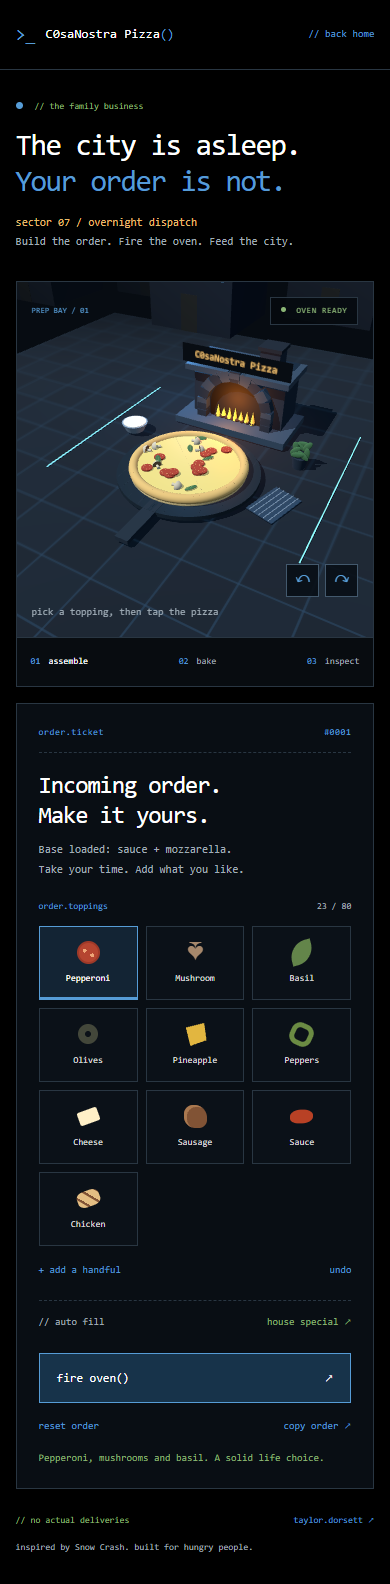
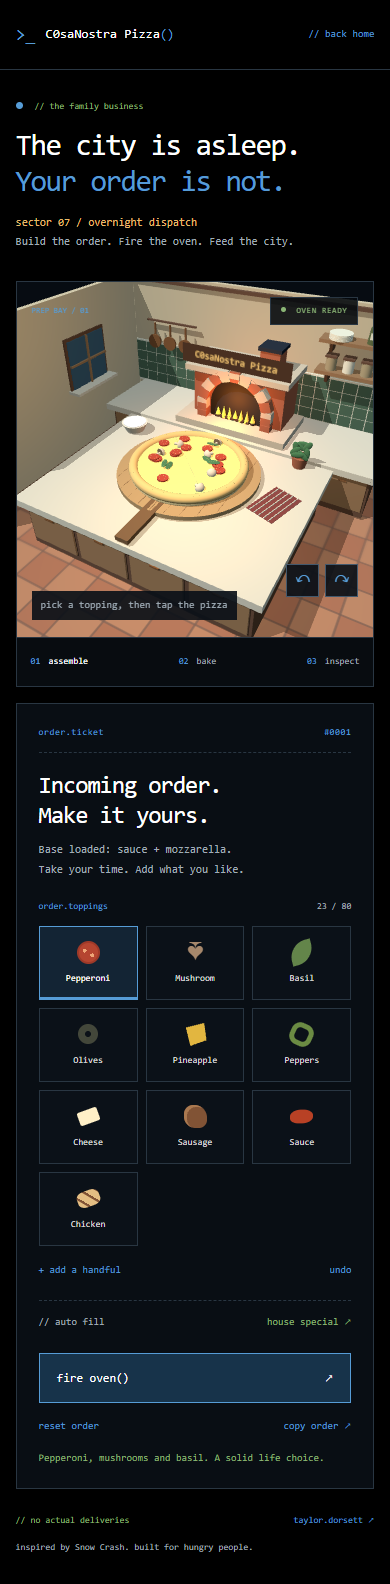
build an italian kitchen

Changed region(s): [[0.0308, 0.1547, 0.9538, 0.4021]]

diff --git a/kitchen-room.js b/kitchen-room.js
@@ -1,0 +1,117 @@
+import * as THREE from './vendor/three.module.js';
+import { createGeometry } from './geometry.js';
+
+// The room shares the pizza's coordinate system: the worktop is just below y=0.
+// It belongs to the kitchen group so none of it follows the courier outside.
+export function createKitchenRoom(root) {
+  const { mesh, box } = createGeometry(root);
+  const material = (color) => new THREE.MeshStandardMaterial({ color, roughness: 0.85 });
+  const plaster = material('#d4bc91');
+  const wood = material('#67442d');
+  const oak = material('#9b7047');
+  const stone = material('#d9c9a9');
+  const copper = new THREE.MeshStandardMaterial({
+    color: '#b77846',
+    metalness: 0.55,
+    roughness: 0.4
+  });
+  const ceramic = material('#eee1bd');
+
+  const tileCanvas = document.createElement('canvas');
+  tileCanvas.width = tileCanvas.height = 256;
+  const ctx = tileCanvas.getContext('2d');
+  ctx.fillStyle = '#785643';
+  ctx.fillRect(0, 0, 256, 256);
+  for (let row = 0; row < 2; row++)
+    for (let col = 0; col < 2; col++) {
+      ctx.fillStyle = (row + col) % 2 ? '#a96847' : '#b77a54';
+      ctx.fillRect(col * 128 + 3, row * 128 + 3, 122, 122);
+    }
+  const tiles = new THREE.CanvasTexture(tileCanvas);
+  tiles.colorSpace = THREE.SRGBColorSpace;
+  tiles.wrapS = tiles.wrapT = THREE.RepeatWrapping;
+  tiles.repeat.set(7, 7);
+  const floor = mesh(
+    new THREE.PlaneGeometry(18, 18),
+    new THREE.MeshStandardMaterial({ map: tiles, roughness: 1 })
+  );
+  floor.rotation.x = -Math.PI / 2;
+  floor.position.set(0, -2.5, -1);
+  box(14, 7.4, 0.25, plaster, root, 0, 1.2, -6.8);
+  box(0.25, 7.4, 12, plaster, root, -7, 1.2, -0.9);
+  box(14, 0.2, 0.18, wood, root, 0, -2.25, -6.6);
+  box(0.18, 0.2, 12, wood, root, -6.8, -2.25, -0.9);
+
+  // Green glazed backsplash with a cream border around the oven and shelves.
+  box(13.7, 2.25, 0.08, ceramic, root, 0, 0.6, -6.64);
+  const glaze = new THREE.MeshStandardMaterial({ color: '#536b50', roughness: 0.25 });
+  for (let row = 0; row < 4; row++)
+    for (let col = 0; col < 23; col++) {
+      box(0.55, 0.48, 0.04, glaze, root, -6.55 + col * 0.59, -0.15 + row * 0.52, -6.58);
+    }
+  box(14, 0.15, 0.2, wood, root, 0, 4.7, -6.6);
+
+  // A real prep counter, with a stone top and cabinets reaching the tiled floor.
+  box(9.3, 0.28, 7, stone, root, 0, -0.4, 0.7);
+  box(8.7, 1.85, 6.45, wood, root, 0, -1.45, 0.7);
+  for (const x of [-3.25, -1.08, 1.08, 3.25]) {
+    box(1.95, 1.45, 0.07, oak, root, x, -1.35, 3.96);
+    box(0.34, 0.07, 0.08, copper, root, x, -0.82, 4.02);
+  }
+  box(12.5, 0.28, 3.3, stone, root, 0, -0.4, -4.65);
+  box(12, 1.9, 2.8, wood, root, 0, -1.45, -4.65);
+  for (const x of [-5, -3, -1, 1, 3, 5]) {
+    box(1.8, 1.5, 0.06, oak, root, x, -1.35, -3.22);
+    box(0.3, 0.07, 0.08, copper, root, x, -0.8, -3.16);
+  }
+
+  // Open shelves, flour jars, plates and olive oil beside the oven.
+  for (const y of [2.25, 3.55]) {
+    box(3.3, 0.14, 0.8, oak, root, 4.3, y, -6.1);
+    for (const x of [3.1, 5.5]) box(0.12, 0.5, 0.5, wood, root, x, y - 0.25, -6.25);
+  }
+  for (let i = 0; i < 4; i++) {
+    const jar = mesh(
+      new THREE.CylinderGeometry(0.22, 0.22, 0.55, 16),
+      i % 2 ? ceramic : material('#ae986d')
+    );
+    jar.position.set(3.2 + i * 0.7, 2.6, -6.05);
+    box(0.46, 0.07, 0.46, wood, root, 3.2 + i * 0.7, 2.91, -6.05);
+  }
+  for (let i = 0; i < 5; i++) {
+    const plate = mesh(new THREE.CylinderGeometry(0.45, 0.45, 0.045, 24), ceramic);
+    plate.position.set(3.4, 3.65 + i * 0.05, -6.05);
+  }
+  const oil = material('#596335');
+  for (const x of [4.6, 5.25]) {
+    const bottle = mesh(new THREE.CylinderGeometry(0.17, 0.2, 0.62, 12), oil);
+    bottle.position.set(x, 3.93, -6.05);
+    box(0.13, 0.28, 0.13, oil, root, x, 4.35, -6.05);
+    box(0.2, 0.25, 0.025, ceramic, root, x, 3.95, -5.86);
+  }
+
+  box(2.7, 0.07, 0.12, wood, root, -4.6, 2.9, -6.4);
+  for (const x of [-5.45, -4.6, -3.75]) {
+    box(0.07, 0.62, 0.07, copper, root, x, 2.52, -6.27);
+    const pan = mesh(new THREE.CylinderGeometry(0.34, 0.32, 0.12, 24), copper);
+    pan.rotation.x = Math.PI / 2;
+    pan.position.set(x, 1.95, -6.22);
+  }
+
+  // A window in the side wall gives the room an outside edge without exposing
+  // the city floor that belongs to the delivery scene.
+  const night = new THREE.MeshStandardMaterial({
+    color: '#263f4b',
+    emissive: '#263f4b',
+    emissiveIntensity: 0.35
+  });
+  box(0.08, 2.4, 2.5, wood, root, -6.8, 2, -2.7);
+  box(0.08, 2.15, 2.25, night, root, -6.74, 2, -2.7);
+  box(0.12, 2.2, 0.08, oak, root, -6.68, 2, -2.7);
+  box(0.12, 0.08, 2.3, oak, root, -6.68, 2, -2.7);
+  box(0.6, 0.12, 2.7, stone, root, -6.55, 0.85, -2.7);
+
+  const warmLight = new THREE.PointLight('#ffd89c', 60, 18, 2);
+  warmLight.position.set(1, 5, 2);
+  root.add(warmLight);
+}

diff --git a/kitchen.js b/kitchen.js
@@ -1,14 +1,16 @@
 import * as THREE from './vendor/three.module.js';
 import { createGeometry } from './geometry.js';
+import { createKitchenRoom } from './kitchen-room.js';
 export function createKitchen(scene) {
   const root = new THREE.Group();
   scene.add(root);
+  createKitchenRoom(root);
   const { mesh, box, ball } = createGeometry(root);
   const material = (color, extra = {}) =>
     new THREE.MeshStandardMaterial({ color, roughness: 0.8, ...extra });
   const mats = {
-    wood: material('#364753', { metalness: 0.65, roughness: 0.4 }),
-    edge: material('#192833'),
+    wood: material('#b88e59'),
+    edge: material('#79532f'),
     crust: material('#e9b96b'),
     dough: material('#edc986'),
     cheese: material('#f4d575', { roughness: 0.52 }),
@@ -24,23 +26,20 @@ export function createKitchen(scene) {
     mozzarella: material('#fff0c7'),
     sausage: material('#815335'),
     chicken: material('#e4be83'),
-    brick: material('#273747', { metalness: 0.35 }),
-    grout: material('#485d70', { metalness: 0.5 }),
+    brick: material('#a85e3d'),
+    grout: material('#cfb997'),
     oven: material('#17222d'),
     black: material('#201f19'),
     coal: material('#382a21'),
     char: material('#96603a'),
-    cream: material('#8999a5'),
+    cream: material('#e9d8b4'),
     metal: material('#79796b', { metalness: 0.3 }),
-    towel: material('#243d51')
+    towel: material('#7d3730')
   };
-  const neon = material('#569cd6', { emissive: '#569cd6', emissiveIntensity: 2 });
-  box(4.4, 0.045, 0.045, neon, root, 0, 2.37, -4.0);
-  box(0.045, 0.035, 8, neon, root, -5, -0.28, -1.8);
-  box(0.045, 0.035, 8, neon, root, 5, -0.28, -1.8);
   const rimLight = new THREE.PointLight('#569cd6', 35, 16, 2);
   rimLight.position.set(-3, 3, -5);
   scene.add(rimLight);
+  rimLight.visible = false;
 
   // The brick oven is made from individual blocks around an arched opening.
   const oven = new THREE.Group();
@@ -79,7 +78,7 @@ export function createKitchen(scene) {
   signCanvas.width = 768;
   signCanvas.height = 128;
   const signContext = signCanvas.getContext('2d');
-  signContext.fillStyle = '#080d13';
+  signContext.fillStyle = '#493021';
   signContext.fillRect(0, 0, 768, 128);
   signContext.fillStyle = '#e8b96c';
   signContext.font = 'bold 66px monospace';
@@ -310,6 +309,7 @@ export function createKitchen(scene) {
     setCooked,
     setVisible(visible) {
       root.visible = visible;
+      rimLight.visible = !visible;
     }
   };
 }

diff --git a/order.js b/order.js
@@ -6,7 +6,16 @@ import { bindSharing } from './sharing.js';
 const $ = (id) => document.getElementById(id);
 // Order state belongs here. The view renders it, the kitchen owns its meshes,
 // and the courier owns a deterministic delivery timeline.
-export function startOrder({ host, scene, camera, renderer, fireLight, frameCamera, kitchen }) {
+export function startOrder({
+  host,
+  scene,
+  camera,
+  renderer,
+  fireLight,
+  frameCamera,
+  kitchen,
+  city
+}) {
   const reduceMotion = matchMedia('(prefers-reduced-motion: reduce)').matches;
   const { carriage, pizza, slices, flames, makeTopping, sliceIndex, setCooked } = kitchen;
   const courier = createCourier(scene);
@@ -17,6 +26,7 @@ export function startOrder({ host, scene, camera, renderer, fireLight, frameCame
     courierPhase = '';
     delete document.body.dataset.courierPhase;
     kitchen.setVisible(true);
+    city.setVisible(false);
     frameCamera(false);
   }
   let toppings = [],
@@ -38,6 +48,7 @@ export function startOrder({ host, scene, camera, renderer, fireLight, frameCame
     courierPhase = '';
     frameCamera(true);
     kitchen.setVisible(false);
+    city.setVisible(true);
     courier.start();
     update();
     say('Courier at the pickup bay.');

diff --git a/city.js b/city.js
@@ -2,7 +2,10 @@ import * as THREE from './vendor/three.module.js';
 import { createGeometry } from './geometry.js';
 // Distances use roughly one metre per unit, matching the courier and cars.
 export function createCity(scene) {
-  const { mesh, box } = createGeometry(scene);
+  const root = new THREE.Group();
+  root.visible = false;
+  scene.add(root);
+  const { mesh, box } = createGeometry(root);
   const material = (color) => new THREE.MeshStandardMaterial({ color, roughness: 0.8 });
   const doorMaterial = material('#201f19');
   // A subtle tiled countertop, drawn here so the kitchen doesn't need image downloads.
@@ -33,7 +36,7 @@ export function createCity(scene) {
 
   // Full sized city blocks behind the kitchen and delivery street.
   const city = new THREE.Group();
-  scene.add(city);
+  root.add(city);
   const buildingMat = material('#101b28');
   const windowMat = new THREE.MeshStandardMaterial({
     color: '#569cd6',
@@ -53,4 +56,9 @@ export function createCity(scene) {
       }
     box(1.2, 2.4, 0.025, doorMaterial, city, x, 0.9, z + 3.02);
   }
+  return {
+    setVisible(visible) {
+      root.visible = visible;
+    }
+  };
 }

diff --git a/app.js b/app.js
@@ -5,6 +5,6 @@ import { startOrder } from './order.js';
 
 const host = document.getElementById('scene');
 const stage = createScene(host);
-createCity(stage.scene);
+const city = createCity(stage.scene);
 const kitchen = createKitchen(stage.scene);
-startOrder({ host, ...stage, kitchen });
+startOrder({ host, ...stage, kitchen, city });

diff --git a/dispatch.css b/dispatch.css
@@ -89,6 +89,9 @@ h2 {
 }
 .scene-caption {
   color: #a0adb7;
+  background: #080e16e6;
+  padding: 7px 9px;
+  width: fit-content;
 }
 .drag-hint {
   color: var(--red);

diff --git a/build.js b/build.js
@@ -11,6 +11,7 @@ for (const file of [
   'city.js',
   'geometry.js',
   'kitchen.js',
+  'kitchen-room.js',
   'order.js',
   'order-view.js',
   'pizza-input.js',

diff --git a/README.md b/README.md
@@ -8,7 +8,7 @@ she has a magnetic wrist launcher, a courier bag, knee pads and a smartwheel boa
 
 reduced motion shows a still handoff instead of the moving chase.
 
-black background, monospace and the same syntax colors as my website. the kitchen sits in a city at night. the pizza is still pizza.
+black background, monospace and the same syntax colors as my website. inside the shop is a warm italian kitchen with tiled walls, stone counters, wood cabinets and a brick oven. the courier heads out into the city at night.
 
 pick a topping and tap the cheese. drag sideways to turn it, or use the arrow buttons. add a handful if you want less precision. the house special makes one for you.
 
@@ -51,19 +51,20 @@ npm run test:browser
 
 ## code layout
 
-| file             | job                                                         |
-| ---------------- | ----------------------------------------------------------- |
-| `app.js`         | put the scene, city, kitchen and order controller together  |
-| `scene.js`       | renderer, lighting, resize handling and camera framing      |
-| `city.js`        | ground and buildings at roughly one metre per unit          |
-| `geometry.js`    | small mesh helpers and shared sphere geometry               |
-| `kitchen.js`     | oven, pizza, toppings and cooked appearance                 |
-| `courier.js`     | street, courier, traffic and pickup animation               |
-| `order.js`       | order state, transitions, controls and frame loop           |
-| `order-view.js`  | ticket text, buttons and delivery steps                     |
-| `pizza-input.js` | pointer capture, turning and topping placement              |
-| `sharing.js`     | share dialog and clipboard fallback                         |
-| `recipe.js`      | recipe encoding and validation without browser dependencies |
+| file              | job                                                         |
+| ----------------- | ----------------------------------------------------------- |
+| `app.js`          | put the scene, city, kitchen and order controller together  |
+| `scene.js`        | renderer, lighting, resize handling and camera framing      |
+| `city.js`         | ground and buildings at roughly one metre per unit          |
+| `geometry.js`     | small mesh helpers and shared sphere geometry               |
+| `kitchen.js`      | oven, pizza, toppings and cooked appearance                 |
+| `kitchen-room.js` | kitchen walls, counters, shelves and room lighting          |
+| `courier.js`      | street, courier, traffic and pickup animation               |
+| `order.js`        | order state, transitions, controls and frame loop           |
+| `order-view.js`   | ticket text, buttons and delivery steps                     |
+| `pizza-input.js`  | pointer capture, turning and topping placement              |
+| `sharing.js`      | share dialog and clipboard fallback                         |
+| `recipe.js`       | recipe encoding and validation without browser dependencies |
 
 the normal order path is `prep → baking → baked → pickup → dispatched`. inspecting a slice toggles between `baked` and `sliced`. reset returns to `prep`, including during baking or pickup. replay starts another pickup with the same pizza.
 
